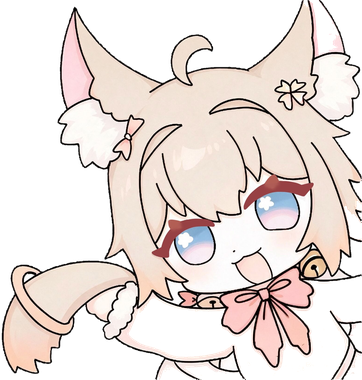
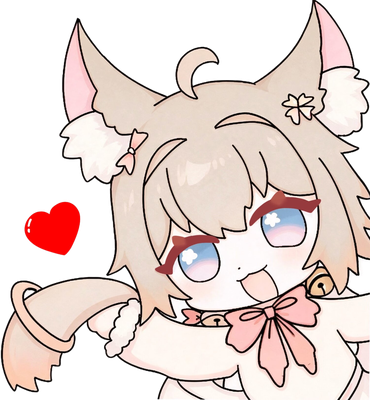
换用新版角色图（修正深色模式丢色），点击气泡改为「点点关注谢谢喵 / 喵」

diff --git a/docs/assets/extra.css b/docs/assets/extra.css
@@ -110,31 +110,52 @@
   border-color: rgba(160, 220, 200, .16);
 }
 
+/* 点击后浮起的小气泡：上面一行“点点关注谢谢喵”，下面一个大“喵” */
 .mokuo__pop {
   position: absolute;
-  top: 2px;
+  bottom: calc(100% + 14px);
   left: 50%;
   transform: translateX(-50%);
-  font-size: .84rem;
-  font-weight: 800;
-  color: #c8901f;
+  display: flex;
+  flex-direction: column;
+  align-items: center;
+  gap: .12rem;
+  padding: .38rem .72rem .34rem;
+  border-radius: 14px;
+  line-height: 1.35;
+  background: var(--md-default-bg-color);
+  border: 1px solid rgba(31, 92, 77, .18);
+  box-shadow: 0 6px 16px rgba(18, 58, 48, .16);
   pointer-events: none;
   opacity: 0;
   white-space: nowrap;
-  text-shadow: 0 1px 2px rgba(255, 255, 255, .5);
 }
-.mokuo__pop.show { animation: mokuoPop .8s ease forwards; }
+.mokuo__pop em {
+  font-style: normal;
+  font-size: .62rem;
+  letter-spacing: .3px;
+  color: var(--md-default-fg-color);
+  opacity: .8;
+}
+.mokuo__pop strong {
+  font-size: .92rem;
+  font-weight: 800;
+  color: #c8901f;
+  line-height: 1.1;
+}
+.mokuo__pop.show { animation: mokuoPop .9s ease forwards; }
 
 @keyframes mokuoPop {
-  0%   { opacity: 0; transform: translate(-50%, 8px) scale(.9); }
-  25%  { opacity: 1; }
-  100% { opacity: 0; transform: translate(-50%, -40px) scale(1.06); }
+  0%   { opacity: 0; transform: translate(-50%, 10px) scale(.9); }
+  22%  { opacity: 1; }
+  100% { opacity: 0; transform: translate(-50%, -26px) scale(1.02); }
 }
 
 [data-md-color-scheme="slate"] .mokuo__pop {
-  color: #e0b76a;
-  text-shadow: 0 1px 3px rgba(0, 0, 0, .6);
+  border-color: rgba(160, 220, 200, .16);
+  background: #16241f;
 }
+[data-md-color-scheme="slate"] .mokuo__pop strong { color: #e0b76a; }
 
 @media (max-width: 44.9375em) {
   .mokuo { right: .5rem; bottom: 1rem; }

diff --git a/docs/assets/site.js b/docs/assets/site.js
@@ -45,7 +45,12 @@
 
     var pop = document.createElement('div');
     pop.className = 'mokuo__pop';
-    pop.textContent = '功德+1';
+    var popTip = document.createElement('em');
+    popTip.textContent = '点点关注谢谢喵';
+    var popWord = document.createElement('strong');
+    popWord.textContent = '喵';
+    pop.appendChild(popTip);
+    pop.appendChild(popWord);
 
     var label = document.createElement('div');
     label.className = 'mokuo__label';
@@ -55,7 +60,7 @@
       count = parseInt(localStorage.getItem('mokuo_count') || '0', 10);
       if (!isFinite(count) || count < 0) count = 0;
     } catch (e) { count = 0; }
-    label.textContent = '功德 ' + count;
+    label.textContent = '喵 ' + count;
 
     var ground = document.createElement('div');
     ground.className = 'mokuo__ground';
@@ -101,7 +106,7 @@
 
     function hit() {
       count++;
-      label.textContent = '功德 ' + count;
+      label.textContent = '喵 ' + count;
       try { localStorage.setItem('mokuo_count', String(count)); } catch (e) {}
       btn.classList.remove('hit');
       void btn.offsetWidth;
